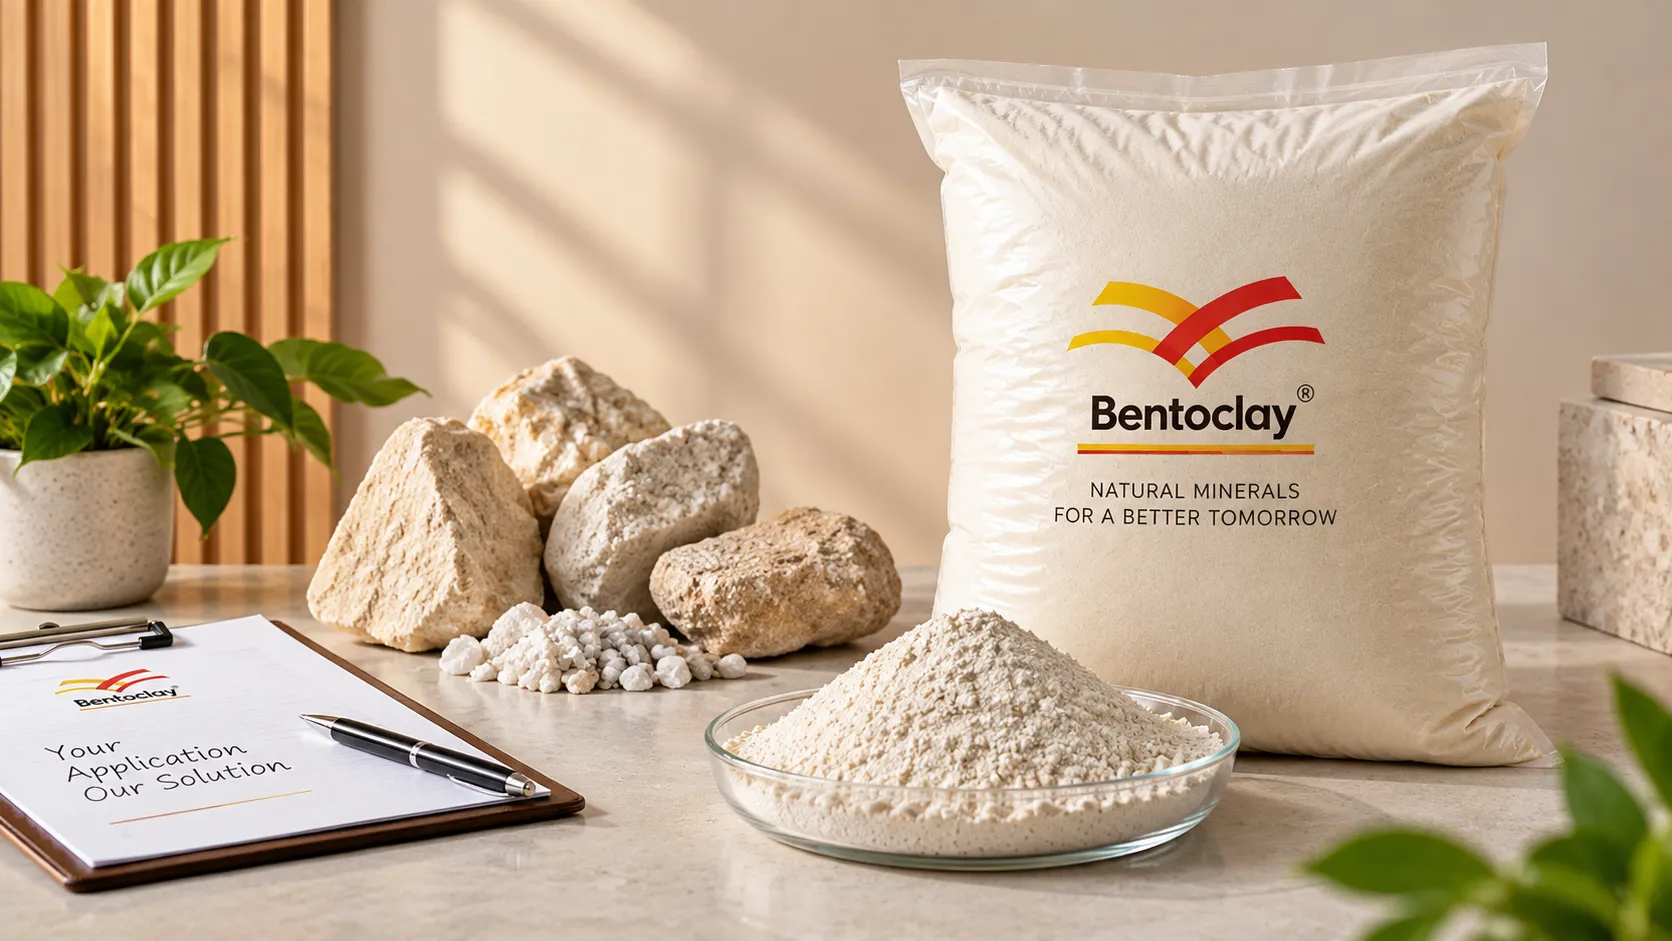
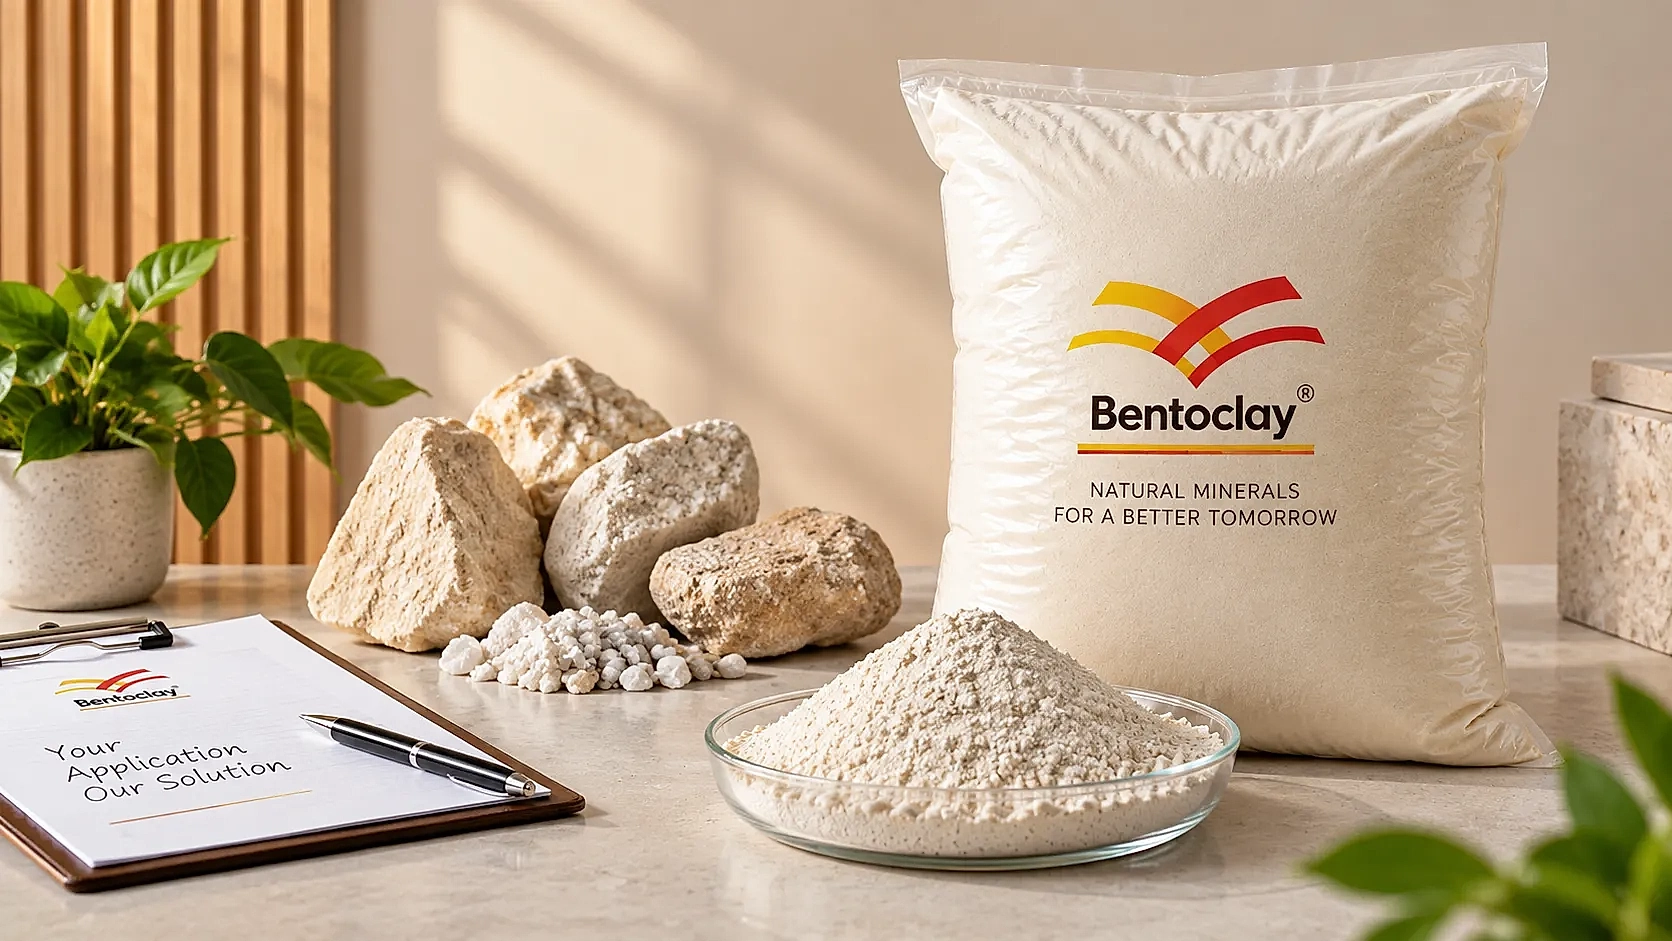
fix: render contact image as semantic high-definition img with high quality crisp webp

diff --git a/src/index.css b/src/index.css
@@ -3007,23 +3007,32 @@ h2 span {
   line-height: 1.7;
 }
 
+.contact-image-card {
+  width: 100%;
+  margin-top: 32px;
+  margin-bottom: 25px;
+  border-radius: 8px;
+  overflow: hidden;
+  box-shadow: 0 15px 35px rgba(71, 43, 28, 0.12);
+  border: 1px solid rgba(128, 80, 46, 0.12);
+  background: #f8f6f0;
+}
+
+.contact-hero-img {
+  width: 100%;
+  height: auto;
+  aspect-ratio: 1672 / 941;
+  display: block;
+  object-fit: cover;
+  image-rendering: -webkit-optimize-contrast;
+  image-rendering: auto;
+}
+
 .direct-details {
-  margin-top: 40px;
+  margin-top: 0;
   display: flex;
   flex-direction: column;
   gap: 17px;
-}
-
-.direct-details:before {
-  content: "";
-  display: block;
-  width: 100%;
-  aspect-ratio: 1672 / 941;
-  height: auto;
-  margin-bottom: 25px;
-  background: url('/assets/contect.webp') center/cover no-repeat;
-  box-shadow: 0 15px 35px rgba(71, 43, 28, 0.12);
-  border-radius: 8px;
 }
 
 .direct-details a {

diff --git a/src/pages/ContactPage.jsx b/src/pages/ContactPage.jsx
@@ -94,6 +94,19 @@ export default function ContactPage() {
             <p>
               Tell us about your application, required grade or quantity. Our team will connect with you directly.
             </p>
+
+            <div className="contact-image-card">
+              <img
+                src="/assets/contect.webp"
+                alt="Bentoclay Attapulgite and Bentonite Product Pack"
+                className="contact-hero-img"
+                loading="eager"
+                decoding="async"
+                width="1672"
+                height="941"
+              />
+            </div>
+
             <div className="direct-details">
               <a href={`mailto:bentoclaytech@gmail.com?subject=${encodeURIComponent(activeProductName ? `Inquiry: ${activeProductName}` : 'Inquiry for Bentoclay Claytech')}`}>
                 <small>EMAIL</small>bentoclaytech@gmail.com
